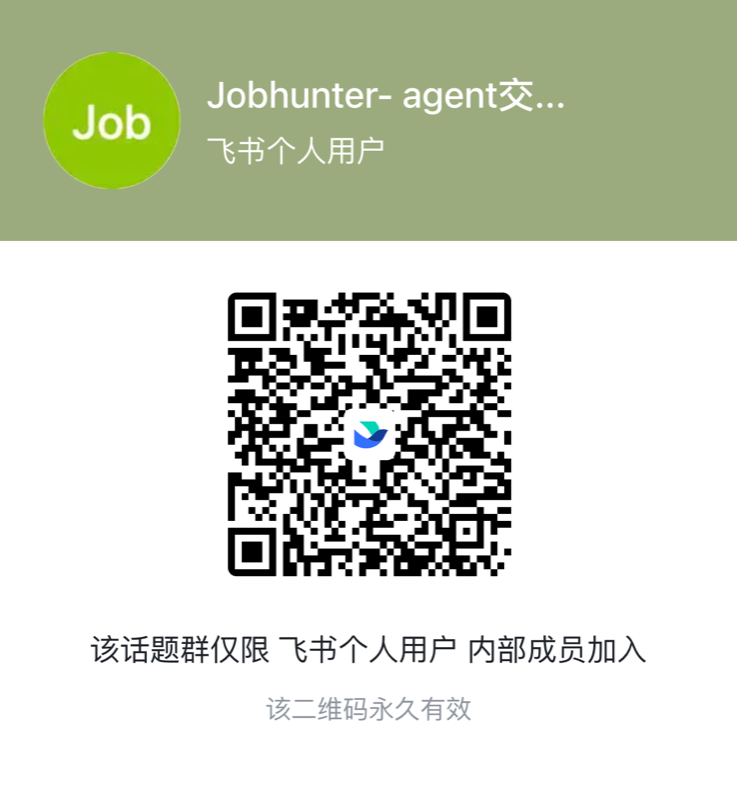
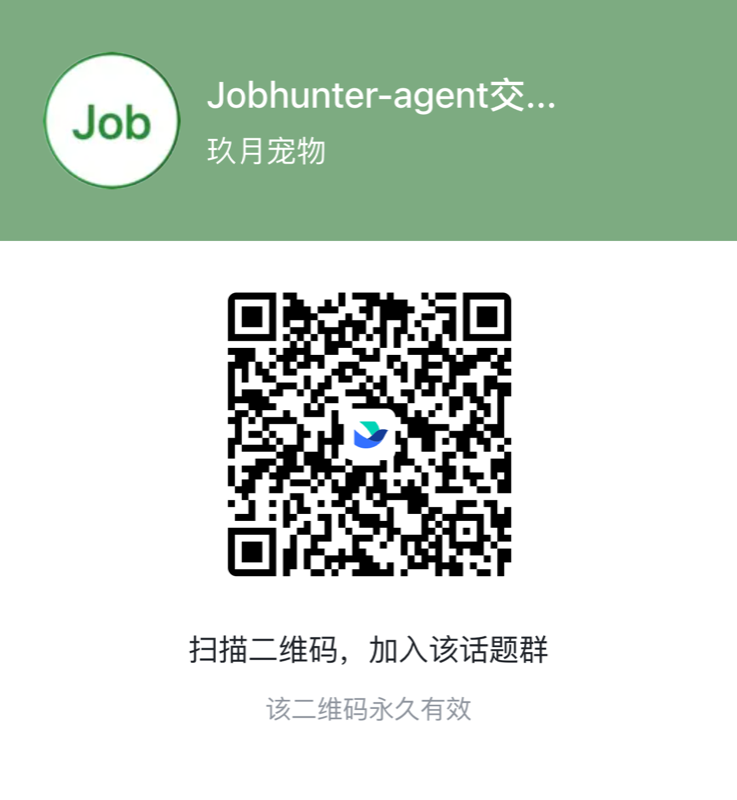
docs(readme): 更换支持外部人员加入的新飞书群二维码
新码无"仅限飞书个人用户"限制，同步删除 README 中已不适用的
个人版账号提示；图片仍压缩至 800px 高（106KB）。

diff --git a/README.md b/README.md
@@ -184,7 +184,7 @@ python scripts/test_config_validation.py all
 
 ## 💬 交流与反馈
 
-- **飞书交流群**（快问快答 / 使用咨询）：扫描下方二维码加入（**二维码永久有效**）。注意：需使用**飞书个人版**账号扫码，企业组织账号暂不支持入群。
+- **飞书交流群**（快问快答 / 使用咨询）：扫描下方二维码即可加入（**二维码永久有效**）。
 - **Bug 反馈与功能建议**：请提 [Issue](https://github.com/jolie-z/jobhunter-ai/issues)（可追踪、可检索，方便后来人搜到同类问题）；提问时请附上**操作系统、Python 版本（3.10–3.13）与完整报错原文**。
 
 <p align="center">
